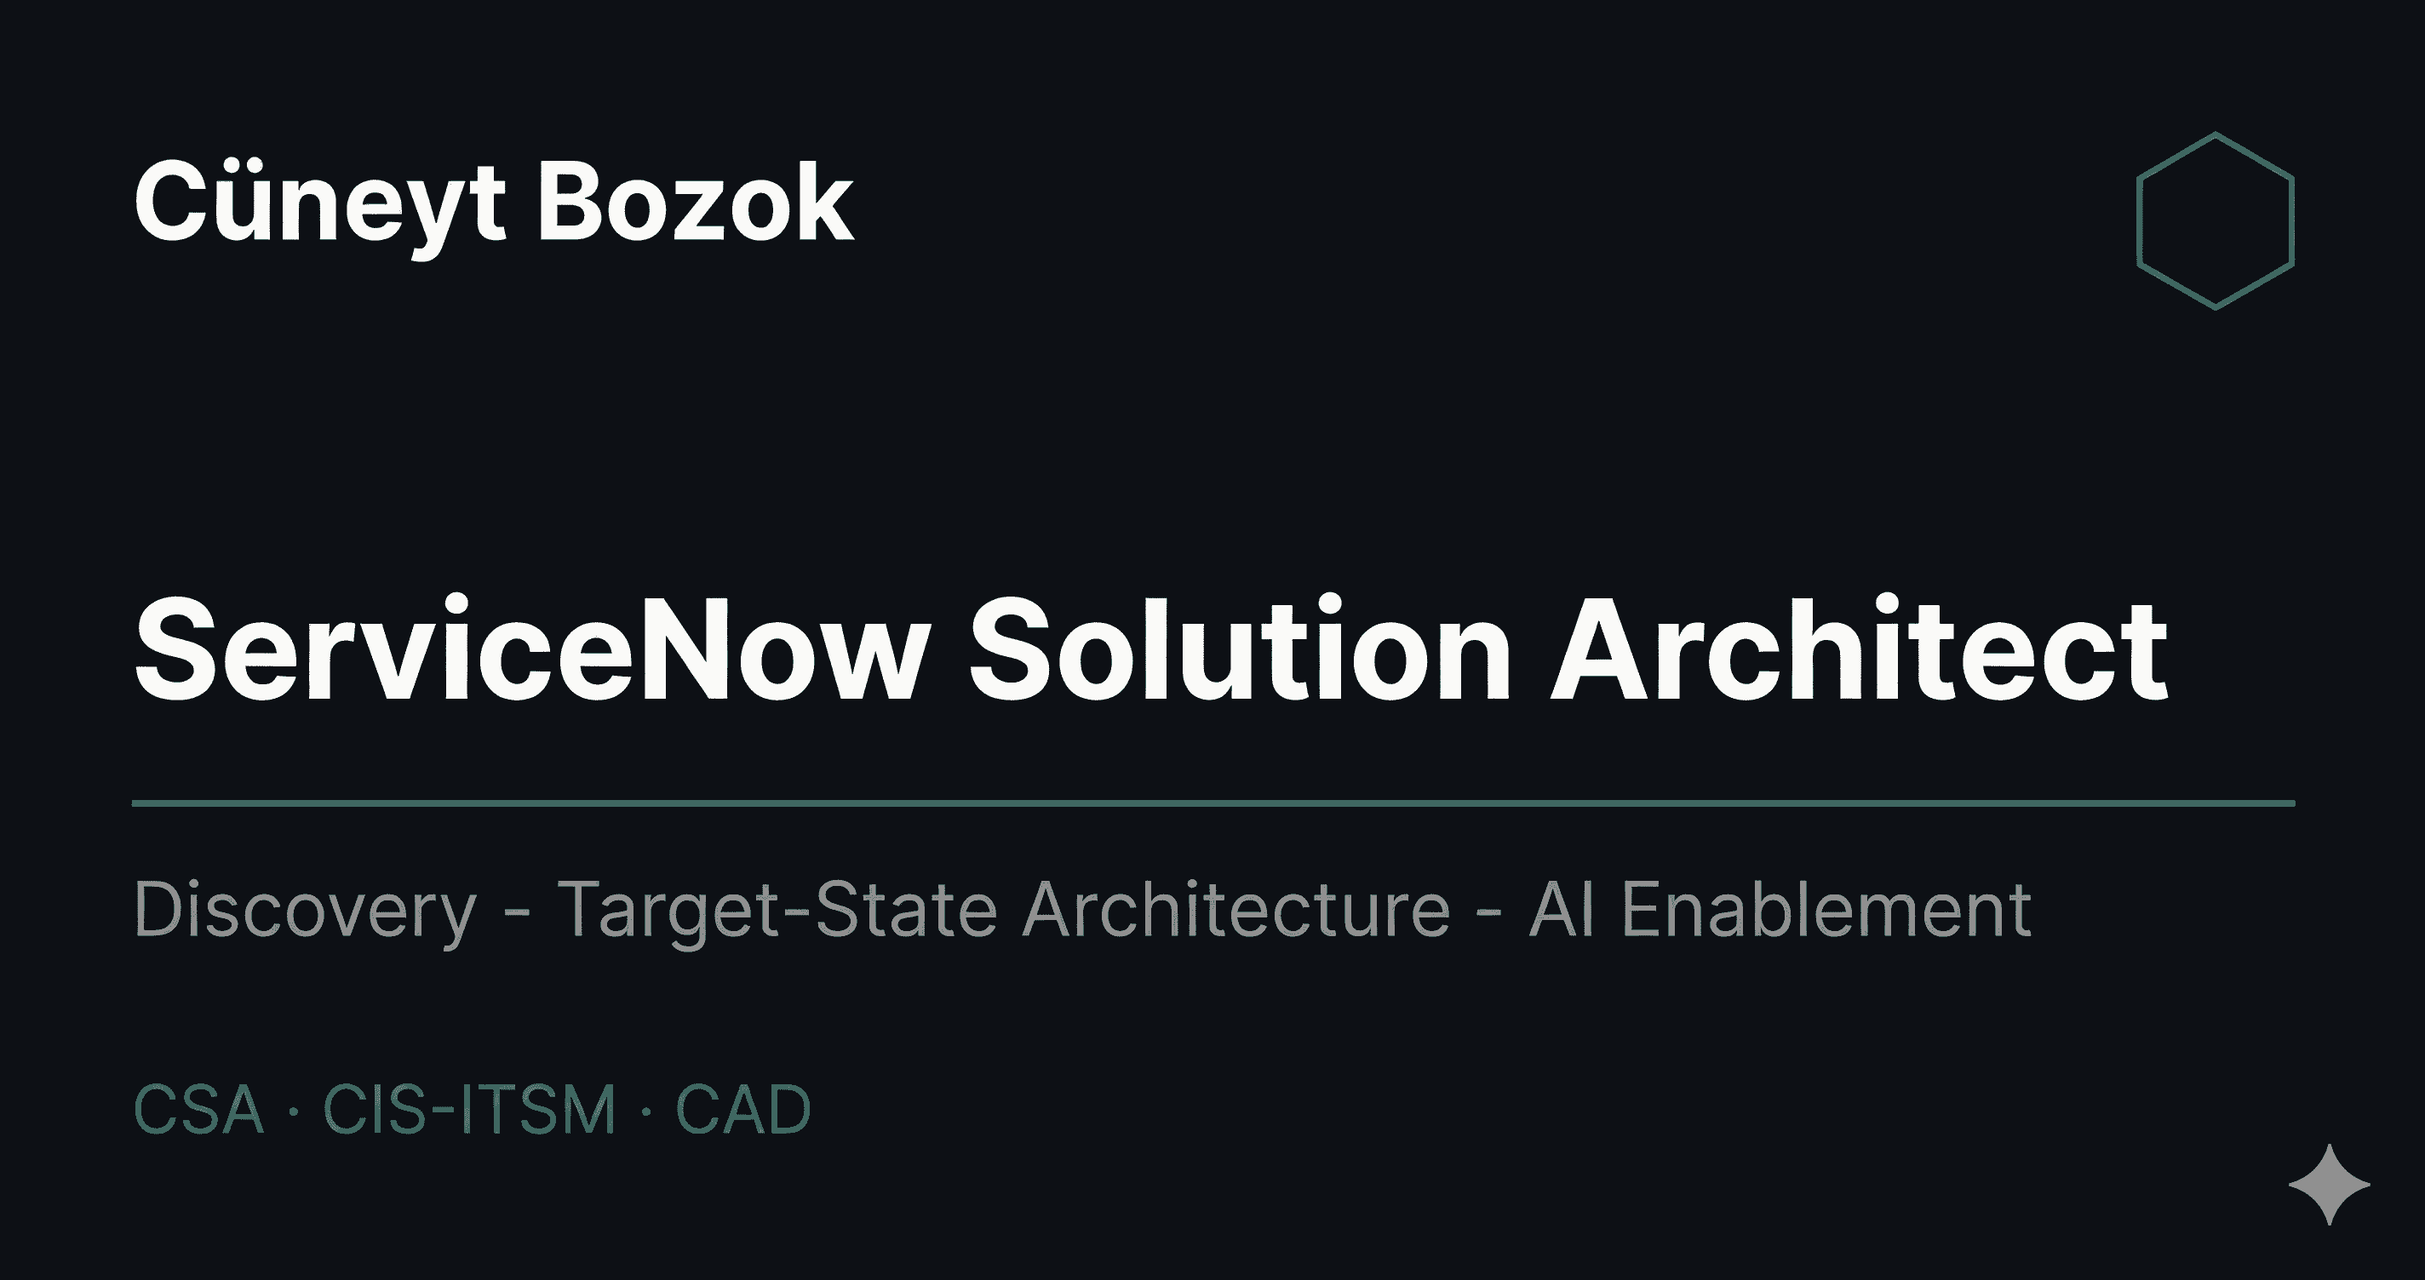
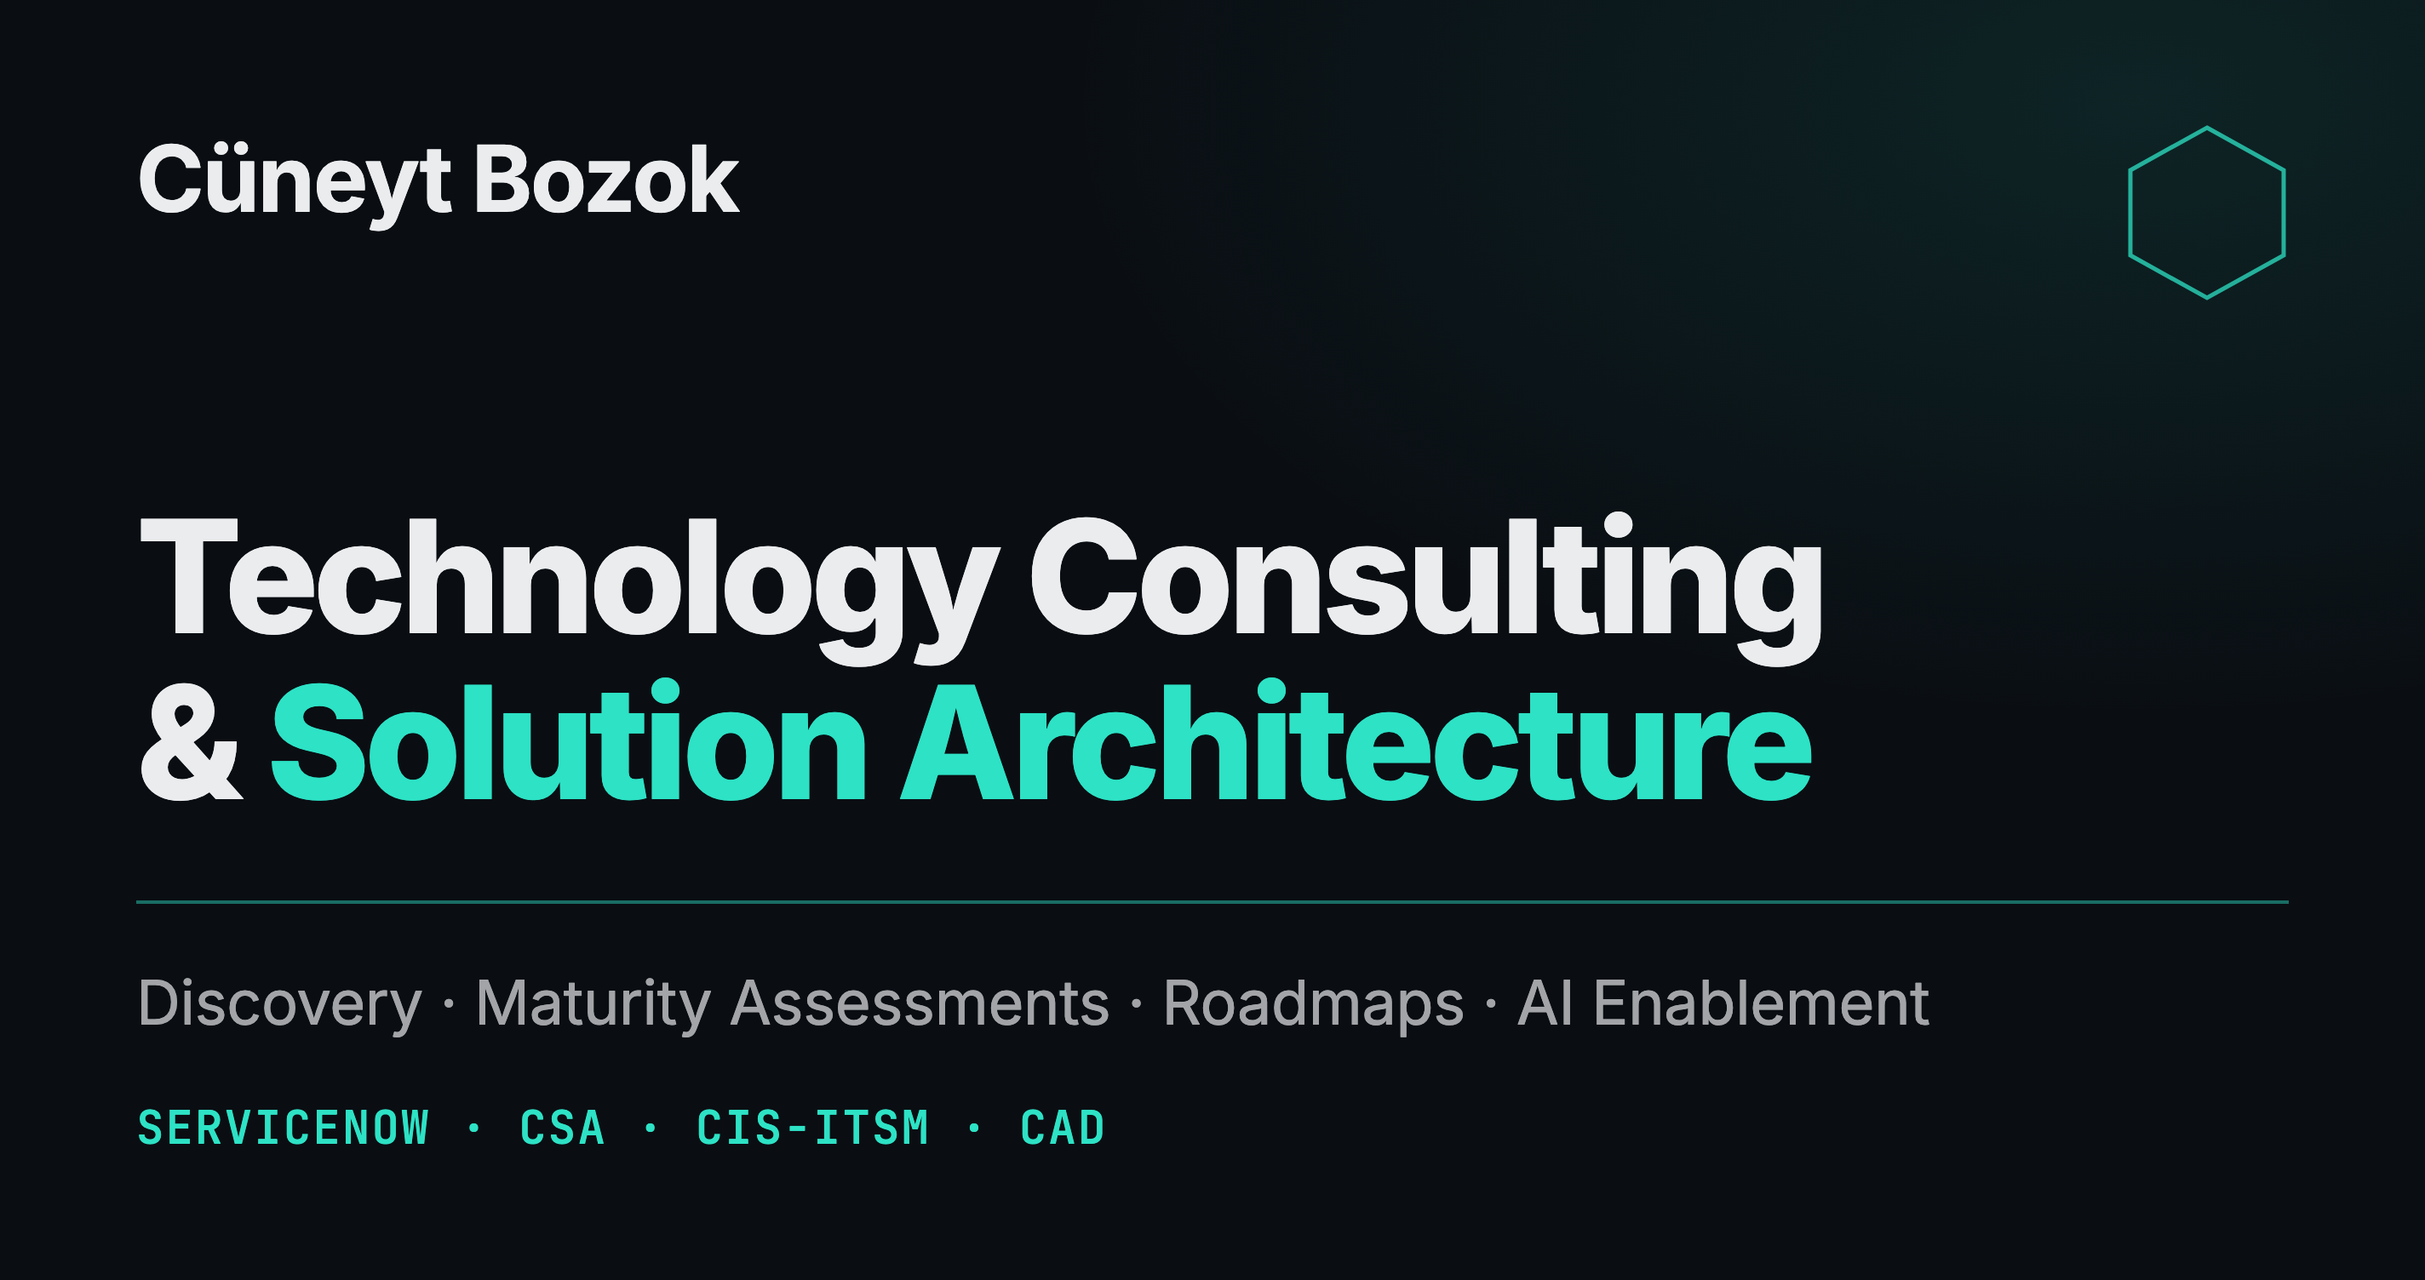
Reposition site around technology consulting and solution architecture
- Use the official title (Lead ServiceNow Developer) everywhere; describe
  architecture and consulting as scope rather than as a job title
- Rewrite hero, About, FAQ and Contact copy around discovery, assessments,
  target-state architecture and roadmaps
- Split Toolbox into Consulting & Advisory and Architecture & Delivery
- Add a Selected Engagements section with stage-labelled cards
- Replace "8+ years" with "since 2017" and compute the years stat at build
- Replace the unverifiable Client Satisfaction stat with Industries
- Drop HRSD product claims; describe the custom HR portal work as such
- Keep stat values readable before scroll for JS-rendering readers
- Add Pre-Sales Core certification; frame AssistMe around its problem
- Regenerate the social sharing image
- Navbar spacing, earlier burger breakpoint, mobile menu tab order,
  Escape to close, visible focus outlines

diff --git a/src/data/portfolio.ts b/src/data/portfolio.ts
@@ -29,7 +29,7 @@ export const experience: ExperienceEntry[] = [
     period: '2022 – Present',
     progression: 'Senior Developer → Lead Developer',
     summary:
-      'Leading ServiceNow architecture, integrations, and AI enablement initiatives for global enterprises across Telecom, Technology & Pharma.',
+      'Discovery, maturity assessments, solution architecture, and AI enablement for global enterprises across Telecom, Technology & Pharma, backed by hands-on integration delivery.',
     open: true,
     roles: [
       {
@@ -38,11 +38,10 @@ export const experience: ExperienceEntry[] = [
         industry: 'Telecom · Technology & Networking · Pharma',
         promo: false,
         highlights: [
-          'Created target-state architecture and implementation guidelines for a headless B2B telco marketplace on ServiceNow (CSM, SOM, TNI, telco orchestration), mapping TM Forum Open APIs to ServiceNow data models and REST interfaces.',
-          'Defined API-driven channel-to-platform integration patterns, responsibility boundaries, and lifecycle/state flows across lead-to-order-to-fulfillment.',
-          'Produced delivery-ready architecture artifacts — HLDs, sequence diagrams, domain model/state diagrams, ADRs, and API contracts — to align teams and vendors.',
           'Led discovery and future-state design across ITSM, Employee Experience, and AI; assessed CMDB/CSDM and ITSM maturity and produced a phased roadmap with executive presentation.',
-          'Delivered demos and POCs covering Now Assist, Agentic AI, App Engine/Creator Studio, Employee Center Pro, and DevOps Change Velocity.',
+          'Supported pre-sales with demos and POCs covering Now Assist, Agentic AI, App Engine/Creator Studio, Employee Center Pro, and DevOps Change Velocity.',
+          'Created target-state architecture and implementation guidelines for a headless B2B telco marketplace on ServiceNow (CSM, SOM, TNI, telco orchestration), mapping TM Forum Open APIs to ServiceNow data models and REST interfaces.',
+          'Defined API-driven channel-to-platform integration patterns and lifecycle/state flows across lead-to-order-to-fulfillment, documented as HLDs, sequence and state diagrams, ADRs, and API contracts.',
         ],
       },
       {
@@ -84,7 +83,7 @@ export const experience: ExperienceEntry[] = [
         promo: true,
         highlights: [
           'Deployed MID Servers; integrated Azure SSO/LDAP; implemented custom inbound actions for event sources without APIs.',
-          'Designed custom HR Service Delivery Portal with bespoke widgets and Angular-based header menu components.',
+          'Designed a custom HR service portal with bespoke widgets and Angular-based header menu components.',
           'Delivered portal/workflow implementations for ITSM and HR use cases across multiple clients.',
         ],
       },
@@ -133,15 +132,40 @@ export const experience: ExperienceEntry[] = [
   },
 ];
 
-export const tools: Tool[] = [
-  { name: 'ServiceNow ITSM / ITOM / CSM', icon: 'layers' },
-  { name: 'CMDB / CSDM Alignment', icon: 'database' },
-  { name: 'Virtual Agent & Messaging', icon: 'bot' },
-  { name: 'API Integration (REST / SOAP)', icon: 'api' },
-  { name: 'Flow Designer & IntegrationHub', icon: 'flow' },
-  { name: 'Discovery & Assessment', icon: 'search' },
-  { name: 'AI / GenAI · Now Assist', icon: 'spark' },
-  { name: 'DevOps & Change Velocity', icon: 'devops' },
+export interface ToolGroup {
+  title: string;
+  /* Desktop column count, so each group fills complete rows. */
+  cols: 3 | 4;
+  tools: Tool[];
+}
+
+export const toolGroups: ToolGroup[] = [
+  {
+    title: 'Consulting & Advisory',
+    cols: 3,
+    tools: [
+      { name: 'Discovery & Stakeholder Workshops', icon: 'people' },
+      { name: 'ITSM & CMDB/CSDM Maturity Assessments', icon: 'search' },
+      { name: 'Target-State Architecture', icon: 'target' },
+      { name: 'Phased Transformation Roadmaps', icon: 'roadmap' },
+      { name: 'Fit-to-Standard Evaluation', icon: 'check' },
+      { name: 'Pre-Sales Demos & Proofs of Concept', icon: 'present' },
+    ],
+  },
+  {
+    title: 'Architecture & Delivery',
+    cols: 4,
+    tools: [
+      { name: 'ServiceNow ITSM / CSM / ITOM', icon: 'layers' },
+      { name: 'CMDB / CSDM Data Foundations', icon: 'database' },
+      { name: 'REST / SOAP Integrations', icon: 'api' },
+      { name: 'Flow Designer & IntegrationHub', icon: 'flow' },
+      { name: 'Virtual Agent & Messaging', icon: 'bot' },
+      { name: 'UI Builder & Custom Applications', icon: 'app' },
+      { name: 'Now Assist & Agentic AI Enablement', icon: 'spark' },
+      { name: 'DevOps Change Velocity', icon: 'devops' },
+    ],
+  },
 ];
 
 export const certMain: string[] = [
@@ -151,6 +175,7 @@ export const certMain: string[] = [
   'Certified Implementation Specialist – ITSM',
   'CIS – Data Foundations (CMDB & CSDM)',
   'Certified System Administrator',
+  'Pre-Sales Core',
 ];
 
 export const certMicro: string[] = [
@@ -180,6 +205,18 @@ export const toolIcons = {
     '<svg viewBox="0 0 24 24" fill="none" stroke="currentColor" stroke-width="1.7"><circle cx="11" cy="11" r="7"/><path d="m21 21-4.3-4.3"/></svg>',
   spark:
     '<svg viewBox="0 0 24 24" fill="none" stroke="currentColor" stroke-width="1.7"><path d="M12 3v4M12 17v4M3 12h4M17 12h4M5.6 5.6l2.8 2.8M15.6 15.6l2.8 2.8M18.4 5.6l-2.8 2.8M8.4 15.6l-2.8 2.8"/><circle cx="12" cy="12" r="2.5"/></svg>',
+  people:
+    '<svg viewBox="0 0 24 24" fill="none" stroke="currentColor" stroke-width="1.7"><circle cx="9" cy="8" r="3.2"/><path d="M3 20c0-3.3 2.7-5.5 6-5.5s6 2.2 6 5.5"/><path d="M16 5.2a3.2 3.2 0 0 1 0 5.6M18 14.8c1.8.7 3 2.4 3 5.2"/></svg>',
+  target:
+    '<svg viewBox="0 0 24 24" fill="none" stroke="currentColor" stroke-width="1.7"><circle cx="12" cy="12" r="9"/><circle cx="12" cy="12" r="5"/><circle cx="12" cy="12" r="1.2"/></svg>',
+  roadmap:
+    '<svg viewBox="0 0 24 24" fill="none" stroke="currentColor" stroke-width="1.7"><circle cx="5" cy="18" r="2"/><circle cx="19" cy="6" r="2"/><path d="M7 18h6a3 3 0 0 0 3-3v0a3 3 0 0 0-3-3h-2a3 3 0 0 1-3-3v0a3 3 0 0 1 3-3h6"/></svg>',
+  check:
+    '<svg viewBox="0 0 24 24" fill="none" stroke="currentColor" stroke-width="1.7"><rect x="4" y="3" width="16" height="18" rx="2"/><path d="m8 9 1.5 1.5L12 8M8 15l1.5 1.5L12 14M15 9.5h1.5M15 15.5h1.5"/></svg>',
+  present:
+    '<svg viewBox="0 0 24 24" fill="none" stroke="currentColor" stroke-width="1.7"><path d="M3 4h18M5 4v10a1 1 0 0 0 1 1h12a1 1 0 0 0 1-1V4"/><path d="M12 15v3M8 21l4-3 4 3"/><path d="m10 8 4 2.5-4 2.5z"/></svg>',
+  app:
+    '<svg viewBox="0 0 24 24" fill="none" stroke="currentColor" stroke-width="1.7"><rect x="3" y="4" width="18" height="16" rx="2"/><path d="M3 9h18M9 9v11"/></svg>',
   devops:
     '<svg viewBox="0 0 24 24" fill="none" stroke="currentColor" stroke-width="1.7"><path d="M21 12a9 9 0 1 1-3-6.7"/><path d="M21 4v5h-5"/></svg>',
 } as const;

diff --git a/src/styles/global.css b/src/styles/global.css
@@ -49,6 +49,8 @@
 * { box-sizing: border-box; margin: 0; padding: 0; }
 
 html { scroll-behavior: smooth; scroll-padding-top: var(--nav-h); }
+:focus-visible { outline: 2px solid var(--accent-bright); outline-offset: 3px; border-radius: 4px; }
+
 @media (prefers-reduced-motion: reduce) {
   html { scroll-behavior: auto; }
   *, *::before, *::after { animation-duration: 0.001ms !important; transition-duration: 0.001ms !important; }
@@ -212,8 +214,8 @@ ul { list-style: none; }
   -webkit-backdrop-filter: blur(14px) saturate(140%);
   border-bottom-color: var(--border);
 }
-.nav .wrap { display: flex; align-items: center; justify-content: space-between; width: 100%; }
-.brand { display: flex; align-items: center; gap: 11px; font-weight: 600; font-size: 1.02rem; letter-spacing: -0.01em; }
+.nav .wrap { display: flex; align-items: center; justify-content: space-between; gap: clamp(20px, 2.6vw, 36px); width: 100%; }
+.brand { white-space: nowrap; display: flex; align-items: center; gap: 11px; font-weight: 600; font-size: 1.02rem; letter-spacing: -0.01em; }
 .brand .mark {
   width: 34px; height: 34px;
   display: grid; place-items: center;
@@ -226,11 +228,12 @@ ul { list-style: none; }
   font-size: 0.92rem;
   box-shadow: inset 0 0 18px rgba(45,226,197,0.12);
 }
-.nav-links { display: flex; align-items: center; gap: 30px; }
+.nav-links { display: flex; align-items: center; gap: clamp(16px, 2vw, 30px); }
 .nav-links a {
   font-family: var(--font-mono);
   font-size: 0.82rem;
   color: var(--text-muted);
+  white-space: nowrap;
   display: flex;
   gap: 7px;
   align-items: baseline;
@@ -251,6 +254,7 @@ ul { list-style: none; }
 .nav-links a.active::after { width: 100%; }
 .nav-links a.active { color: var(--text); }
 .nav-cta { display: flex; align-items: center; gap: 14px; }
+.nav-cta .btn { white-space: nowrap; padding: 10px 18px; font-size: 0.82rem; }
 
 .burger {
   display: none;
@@ -283,9 +287,11 @@ ul { list-style: none; }
   transform: translateY(-12px);
   opacity: 0;
   pointer-events: none;
-  transition: opacity 0.28s var(--ease), transform 0.28s var(--ease);
+  /* Hidden once the fade-out ends, so the closed menu leaves the tab order. */
+  visibility: hidden;
+  transition: opacity 0.28s var(--ease), transform 0.28s var(--ease), visibility 0s linear 0.28s;
 }
-.mobile-menu.open { opacity: 1; transform: translateY(0); pointer-events: auto; }
+.mobile-menu.open { opacity: 1; transform: translateY(0); pointer-events: auto; visibility: visible; transition-delay: 0s; }
 .mobile-menu a {
   font-family: var(--font-mono);
   font-size: 1.15rem;
@@ -630,6 +636,9 @@ ul { list-style: none; }
   grid-template-columns: repeat(4, 1fr);
   gap: 16px;
 }
+.tools.cols-3 { grid-template-columns: repeat(3, 1fr); }
+.tool-group + .tool-group { margin-top: 38px; }
+.tool-group-title { font-family: var(--font-mono); font-size: 0.86rem; color: var(--accent); margin-bottom: 16px; }
 .tool {
   padding: 22px 16px;
   text-align: center;
@@ -654,6 +663,17 @@ ul { list-style: none; }
 .tool .name { font-size: 0.84rem; color: var(--text-muted); line-height: 1.35; }
 .tool:hover .name { color: var(--text); }
 .tools-more { text-align: center; margin-top: 30px; }
+
+/* ============================================================
+   SELECTED ENGAGEMENTS
+   ============================================================ */
+.eng-grid { display: grid; grid-template-columns: repeat(3, 1fr); gap: 20px; }
+.eng { padding: clamp(22px, 3vw, 30px); }
+.eng-stage { font-family: var(--font-mono); font-size: 0.74rem; letter-spacing: 0.04em; color: var(--accent); }
+.eng h3 { font-size: 1.12rem; font-weight: 650; letter-spacing: -0.01em; margin-top: 8px; }
+.eng dl { display: flex; flex-direction: column; gap: 14px; margin-top: 18px; }
+.eng dt { font-family: var(--font-mono); font-size: 0.72rem; letter-spacing: 0.06em; text-transform: uppercase; color: var(--text-dim); }
+.eng dd { margin: 4px 0 0; color: var(--text-muted); font-size: 0.92rem; }
 
 /* ============================================================
    ASSISTME SPOTLIGHT
@@ -881,6 +901,12 @@ html.anim .reveal[data-d="4"] { transition-delay: 0.32s; }
 /* ============================================================
    RESPONSIVE
    ============================================================ */
+/* The full nav needs ~1100px; below that it collapses to the burger menu. */
+@media (max-width: 1100px) {
+  .nav-links { display: none; }
+  .nav-cta .btn { display: none; }
+  .burger { display: flex; }
+}
 @media (max-width: 940px) {
   .nav-links { display: none; }
   .nav-cta .btn { display: none; }
@@ -890,6 +916,7 @@ html.anim .reveal[data-d="4"] { transition-delay: 0.32s; }
   .about-grid { grid-template-columns: 1fr; }
   .contact-grid { grid-template-columns: 1fr; }
   .faq-grid { grid-template-columns: 1fr; }
+  .eng-grid { grid-template-columns: 1fr; }
   .cert-wrap { grid-template-columns: 1fr; gap: 30px; }
   .hexbadge { display: none; }
   .tools { grid-template-columns: repeat(3, 1fr); }
@@ -897,7 +924,7 @@ html.anim .reveal[data-d="4"] { transition-delay: 0.32s; }
   .spotlight-points { grid-template-columns: repeat(2, 1fr); }
 }
 @media (max-width: 620px) {
-  .tools { grid-template-columns: repeat(2, 1fr); }
+  .tools, .tools.cols-3 { grid-template-columns: repeat(2, 1fr); }
   /* Icon only, so the button doesn't cover the poster's small text. */
   .spotlight-play { padding: 10px; }
   .spotlight-play .pill { padding: 10px; }

diff --git a/src/config.ts b/src/config.ts
@@ -2,24 +2,25 @@ export const siteConfig = {
   name: 'Cüneyt Bozok',
   // Diacritic-free variant so search/AI engines resolve both spellings to the same entity.
   alternateName: 'Cuneyt Bozok',
-  tagline: 'ServiceNow Solution Architect | Lead Engineer | ITSM, CSM/SOM, CMDB/CSDM, Integrations, AI Enablement | CSA · CIS-ITSM · CAD',
+  tagline: 'Technology Consulting & Solution Architecture | Lead ServiceNow Developer | ITSM, CSM/SOM, CMDB/CSDM, Integrations, AI Enablement | CSA · CIS-ITSM · CAD',
   // SEO
   siteUrl: 'https://cuneytbozok.com',
-  seoTitle: 'Cüneyt Bozok — ServiceNow Solution Architect',
+  seoTitle: 'Cüneyt Bozok — Technology Consulting & ServiceNow Solution Architecture',
   seoDescription:
-    'ServiceNow Solution Architect — 8+ years across ITSM, CSM, ITOM, CMDB/CSDM, Virtual Agent and API integrations, from discovery to rollout and AI enablement.',
+    'Technology consulting and solution architecture grounded in ServiceNow delivery since 2017 — discovery, maturity assessments, roadmaps, integrations and AI enablement.',
   email: 'cuneyt@cuneytbozok.com',
-  jobTitle: 'ServiceNow Solution Architect',
+  // Official title, as on LinkedIn. Architecture/consulting is described as scope, not as a title.
+  jobTitle: 'Lead ServiceNow Developer',
   worksFor: 'EPAM Systems',
   location: { city: 'Istanbul', country: 'Türkiye', countryCode: 'TR' },
   knowsLanguage: ['en', 'tr'],
-  intro: 'ServiceNow Solution Architect & Lead Engineer with 8+ years delivering ITSM/CSM, CMDB/CSDM alignment, Virtual Agent experiences, and API integrations—strong in discovery, target-state architecture, and fit-to-standard decisions.',
+  intro: 'Lead ServiceNow Developer working across solution architecture and consulting since 2017, delivering ITSM/CSM, CMDB/CSDM alignment, Virtual Agent experiences, and API integrations—strong in discovery, target-state architecture, and fit-to-standard decisions.',
   currentFocus: 'AI-powered automation, Virtual Agent design, Now Assist, Agentic AI, and platform architecture—integrating ServiceNow with SAP, UiPath, Microsoft Teams, and third-party platforms.',
 
   navLinks: [
     { name: 'About', url: '/#about', number: '01' },
     { name: 'Experience', url: '/#experience', number: '02' },
-    { name: 'Toolbox', url: '/#toolbox', number: '03' },
+    { name: 'Capabilities', url: '/#toolbox', number: '03' },
     { name: 'Certifications', url: '/#certifications', number: '04' },
     { name: 'FAQ', url: '/#faq', number: '05' },
     { name: 'Contact', url: '/#contact', number: '06' },
